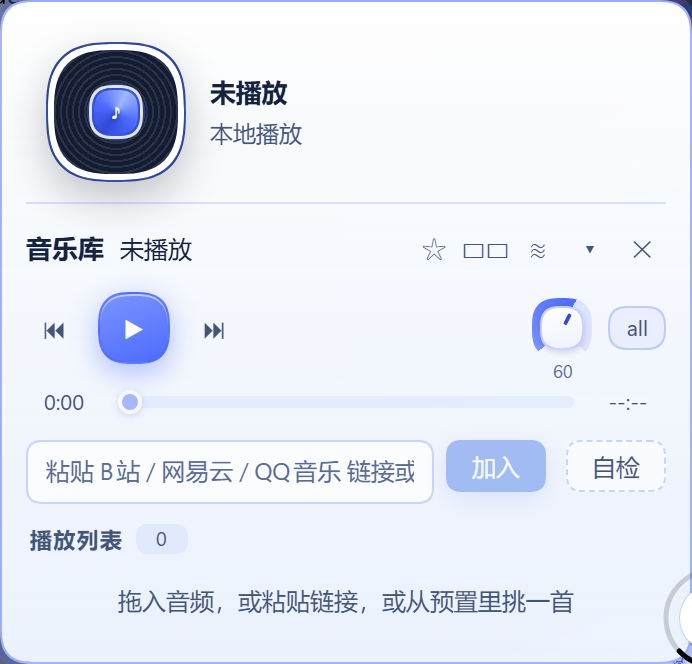
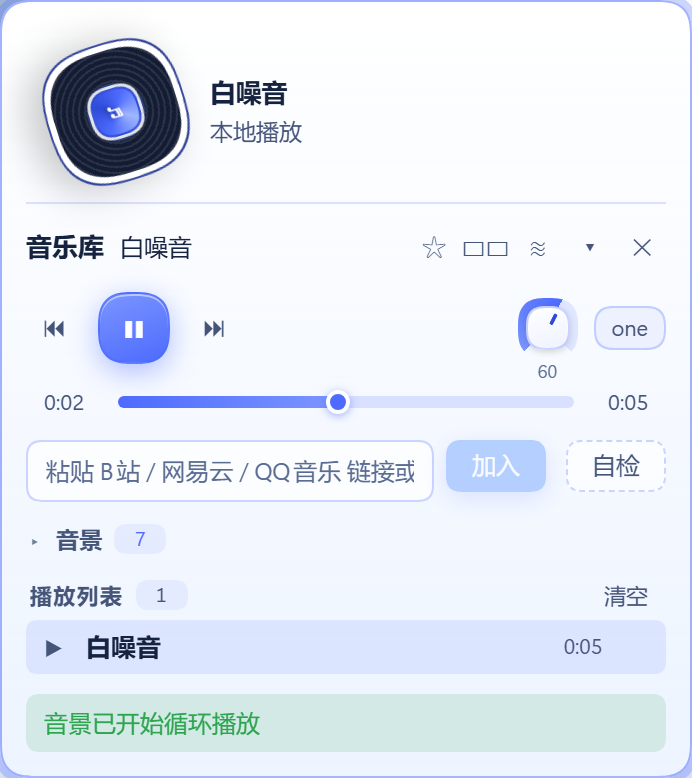
fix: keep the spectrum badge off an idle dock, recapture screenshots
The badge keyed on state.spectrumAvailable, which is also false while nothing is
playing, so '外部播放器 · 无频谱' was welded onto the bottom corner of an empty panel.
The only honest signal is state.mode === 'external'. Same fix on the live
onStateChange path, and the capsule screenshot now clips to the capsule instead of
the whole full-bleed spectrum band.

diff --git a/src/client/ui/Spectrum.jsx b/src/client/ui/Spectrum.jsx
@@ -306,11 +306,16 @@ export function Spectrum(props) {
   const glow = normalizeGlow(settings && settings.spectrumGlow);
 
   // 外部播放器模式下没有 analyser：先按 engine 当前状态定初始占位，再靠事件刷新。
+  //
+  // 判据只能是 mode === 'external'，不能再叠加 spectrumAvailable。
+  // 空闲态（刚打开页面、什么都没放）engine 的 spectrumAvailable 也是 false，
+  // 此时频谱在画呼吸基线 —— 那是「有点可画」，不是「没有频谱」。
+  // 早先写成 `spectrumAvailable !== false` 就直接把「外部播放器 · 无频谱」
+  // 这枚徽标焊在了空面板的右下角。
   const initialSpectrumAvailable = (() => {
     const state = readEngineState(engine);
     if (state === null) return true;
-    if (state.mode === 'external') return false;
-    return state.spectrumAvailable !== false;
+    return state.mode !== 'external';
   })();
 
   const canvasRef = useRef(null);
@@ -763,7 +768,9 @@ export function Spectrum(props) {
         const unsubscribe = engine.onStateChange((state) => {
           const next = state && typeof state === 'object' ? state : readEngineState(engine);
           if (next !== null) {
-            externalRef.current = next.mode === 'external' || next.spectrumAvailable === false;
+            // 同上：只认 mode === 'external'。空闲态 spectrumAvailable 也是 false，
+            // 照它判会把徽标又焊回去。
+            externalRef.current = next.mode === 'external';
           }
           // 状态变化是最强的「引擎可能刚建好」信号：立刻重绑，不等 500ms 重试窗口。
           if (bindAnalyser(readAnalyser(engine))) nextProbeTs = 0;

diff --git a/client.js b/client.js
@@ -8704,8 +8704,7 @@ var __dshMusicOnImpl__ = (() => {
     const initialSpectrumAvailable = (() => {
       const state = readEngineState(engine);
       if (state === null) return true;
-      if (state.mode === "external") return false;
-      return state.spectrumAvailable !== false;
+      return state.mode !== "external";
     })();
     const canvasRef = (0, import_react3.useRef)(null);
     const hostRef = (0, import_react3.useRef)(null);
@@ -9061,7 +9060,7 @@ var __dshMusicOnImpl__ = (() => {
           const unsubscribe = engine.onStateChange((state) => {
             const next = state && typeof state === "object" ? state : readEngineState(engine);
             if (next !== null) {
-              externalRef.current = next.mode === "external" || next.spectrumAvailable === false;
+              externalRef.current = next.mode === "external";
             }
             if (bindAnalyser(readAnalyser(engine))) nextProbeTs = 0;
             if (visibleRef.current) resume();

diff --git a/scripts/shoot-screenshots.py b/scripts/shoot-screenshots.py
@@ -3,10 +3,14 @@
 不是插件产物：只在本机对着运行中的 DSH Web（http://127.0.0.1:3080）跑一次。
 用 python playwright，因为本机只装了 python 侧的 playwright（1.62.0）。
 
-三张图：
-  docs/screenshot-capsule.png  收起态胶囊 + 底部蓝白频谱
-  docs/screenshot-dock.png     展开态播放卡片（含播放列表）
-  docs/screenshot-settings.png 设置页的音乐台分区
+四张图：
+  docs/screenshot-capsule.png   收起态胶囊 + 底部蓝白频谱
+  docs/screenshot-dock.png      展开态播放卡片（含播放列表，正在播一条音景）
+  docs/screenshot-soundscapes.png  音景一排展开后的七条 chip
+  docs/screenshot-settings.png  设置页的音乐台分区
+
+音景那一排必须是展开态才拍得到：它默认收成一枚按钮，而商店描述里写了
+「七条内置音景」。截图里看不见，评审对着描述核代码时就会认为描述夸大。
 """
 
 import sys
@@ -19,24 +23,56 @@ URL = "http://127.0.0.1:3080/"
 OUT = Path(__file__).resolve().parent.parent / "docs"
 VIEWPORT = {"width": 1440, "height": 900}
 
-# 右下角另有别的插件挂件会盖住音乐台，截图前把它按位置隐藏掉。
-# 判据：fixed/absolute 定位、贴着视口右下、且不是我们自己的 dmo- 节点。
+# 右下角另有别的插件挂件（圆形按钮、角标之类）会盖住音乐台，截图前按几何位置隐藏掉。
+# 判据：自身定位是 fixed/absolute、矩形与「胶囊 + 底部频谱带」相交、且不属于本插件。
+#
+# 两个必须排除的坑（都实测踩过）：
+#   1. 宿主把 overlay 槽位包在 `.pI_x6G_overlayLayer`（position:absolute; inset:0）里，
+#      而那是**我们自己的祖先**。只判 `el.closest('.dmo-dock-stack')` 排除不掉它，
+#      把祖先隐藏 = 连胶囊一起从画面上抹掉，后续 click 直接 "element is not visible"。
+#      必须再排除「包含本插件节点的元素」。
+#   2. 只按「贴着视口右下」判会漏掉一批圆形浮件，截出来一片杂乱。
 HIDE_INTRUDERS = """
 () => {
-  const vw = window.innerWidth, vh = window.innerHeight;
+  const dock = document.querySelector('.dmo-dock-stack');
+  const bar = document.querySelector('.dmo-barspectrum');
+  const mine = [dock, bar].filter(Boolean);
+  const boxes = mine.map((n) => n.getBoundingClientRect());
+  const overlaps = (a, b) => !(a.right < b.left || a.left > b.right || a.bottom < b.top || a.top > b.bottom);
   const hidden = [];
   for (const el of document.querySelectorAll('body *')) {
-    if (el.closest('.dmo-dock-stack') || el.closest('.dmo-settings')) continue;
+    if (el.closest('.dmo-dock-stack') || el.closest('.dmo-settings') || el.closest('.dmo-seat')) continue;
+    // 祖先不能动：隐藏祖先等于隐藏我们自己
+    if (mine.some((node) => el.contains(node))) continue;
     const cs = getComputedStyle(el);
     if (cs.position !== 'fixed' && cs.position !== 'absolute') continue;
     const r = el.getBoundingClientRect();
-    if (r.width < 40 || r.height < 40) continue;
-    if (r.right > vw - 8 && r.bottom > vh - 8 && r.top > vh * 0.55) {
-      el.style.setProperty('visibility', 'hidden', 'important');
-      hidden.push(el.className || el.tagName);
-    }
+    if (r.width < 12 || r.height < 12) continue;
+    if (!boxes.some((b) => overlaps(r, b))) continue;
+    el.style.setProperty('visibility', 'hidden', 'important');
+    hidden.push((typeof el.className === 'string' && el.className) || el.tagName);
   }
   return hidden;
+}
+"""
+
+# 胶囊 + 它正下方那一小段频谱带的外接矩形，四周留 28px，用来裁剪出干净的交付图。
+# 不要按整条频谱带的宽度截：那是通栏的，截出来的图会变成一条又宽又扁的长条，
+# 主体（胶囊）反而缩成一个小角。
+CAPSULE_CLIP = """
+() => {
+  const dock = document.querySelector('.dmo-dock-stack');
+  if (!dock) return null;
+  const r = dock.getBoundingClientRect();
+  const pad = 28;
+  const x = Math.max(0, r.left - pad);
+  const y = Math.max(0, r.top - pad);
+  return {
+    x,
+    y,
+    width: Math.min(window.innerWidth - x, r.width + pad * 2),
+    height: Math.min(window.innerHeight - y, r.height + pad * 2),
+  };
 }
 """
 
@@ -58,8 +94,13 @@ def main() -> int:
         hidden = page.evaluate(HIDE_INTRUDERS)
         print("已隐藏的遮挡元素:", hidden)
 
-        # 1) 收起态：先让胶囊固定在右下角，再抓整屏
-        page.screenshot(path=str(OUT / "screenshot-capsule.png"))
+        # 1) 收起态：裁到「胶囊 + 整条频谱带」，不拍整屏。
+        # 整屏里主体是空会话页，胶囊只占右下一个小角，评审看不出这是什么。
+        clip = page.evaluate(CAPSULE_CLIP)
+        if clip and clip["width"] > 80 and clip["height"] > 80:
+            page.screenshot(path=str(OUT / "screenshot-capsule.png"), clip=clip)
+        else:
+            page.screenshot(path=str(OUT / "screenshot-capsule.png"))
         print("wrote", OUT / "screenshot-capsule.png")
 
         # 2) 展开态：点胶囊正文
@@ -68,12 +109,41 @@ def main() -> int:
         page.wait_for_timeout(600)
         page.evaluate(HIDE_INTRUDERS)
 
-        # 放一首内置音景，让频谱与封面有东西可画
+        # 音景那一排默认收成一枚按钮，必须先点开才能点到里面的 chip。
+        # 展开后单独拍一张，作为「七条内置音景」这条描述的证据。
+        soundscapes_shot = False
         try:
-            page.click("text=白噪音", timeout=4000)
+            head = page.query_selector(".dmo-soundscapes-head")
+            if head is not None:
+                head.click()
+                wait_for(page, "[data-preset-id]", timeout=6000)
+                page.wait_for_timeout(400)
+                box = page.query_selector(".dmo-soundscapes")
+                if box is not None:
+                    box.screenshot(path=str(OUT / "screenshot-soundscapes.png"))
+                    print("wrote", OUT / "screenshot-soundscapes.png")
+                    soundscapes_shot = True
+            else:
+                print("没找到 .dmo-soundscapes-head", file=sys.stderr)
+        except Exception as exc:  # noqa: BLE001 - 拍不到就跳过这张，不影响其余三张
+            print("音景一排没拍成:", exc, file=sys.stderr)
+
+        # 放一条内置音景，让频谱、封面、进度条都有东西可画。
+        # 用 data-preset-id 定位，不要用 text=白噪音 —— 文案会随语言变。
+        try:
+            page.click("[data-preset-id='white-noise']", timeout=5000)
             page.wait_for_timeout(2500)
         except Exception as exc:  # noqa: BLE001 - 找不到就截静态态，不影响交付
-            print("预置曲目未点到:", exc)
+            print("音景未点到:", exc, file=sys.stderr)
+
+        # 拍完音景就把它收回去，让卡片截图回到常规高度
+        try:
+            head = page.query_selector(".dmo-soundscapes-head.is-open")
+            if head is not None:
+                head.click()
+                page.wait_for_timeout(300)
+        except Exception:  # noqa: BLE001
+            pass
 
         card = page.query_selector(".dmo-card")
         if card is None:
